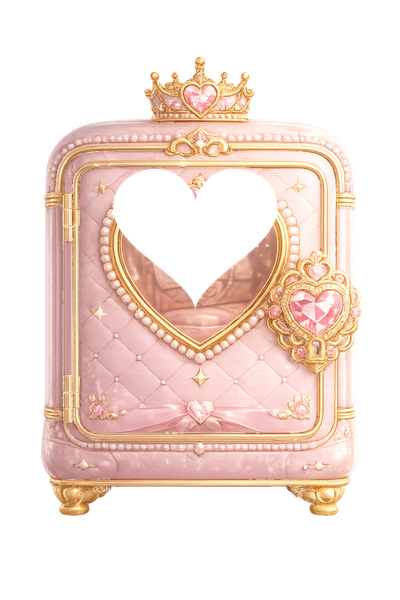
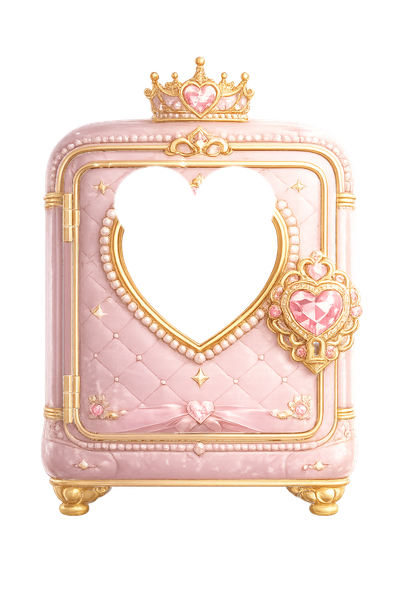
feat: 깔끔한 투명 배경 + 하트 컷아웃 금고 프레임

diff --git a/index.html b/index.html
@@ -62,7 +62,7 @@ body{font-family:'Gowun Batang','Noto Sans KR',-apple-system,sans-serif;backgrou
 .safe-assembly{position:relative;width:240px;height:360px;margin:0 auto}
 /* Reward image BEHIND the frame, visible through heart hole */
 .safe-img-layer{position:absolute;z-index:1;pointer-events:none;overflow:hidden;
-  top:100px;left:55px;width:130px;height:110px;border-radius:8px}
+  top:105px;left:58px;width:118px;height:88px;border-radius:6px}
 .safe-img-layer img{width:100%;height:100%;object-fit:cover;object-position:center;transition:filter .5s}
 /* PNG safe frame ON TOP (has transparent heart hole) */
 .safe-frame-img{position:absolute;inset:0;width:100%;height:100%;z-index:2;pointer-events:none;object-fit:contain;transition:filter .4s}
